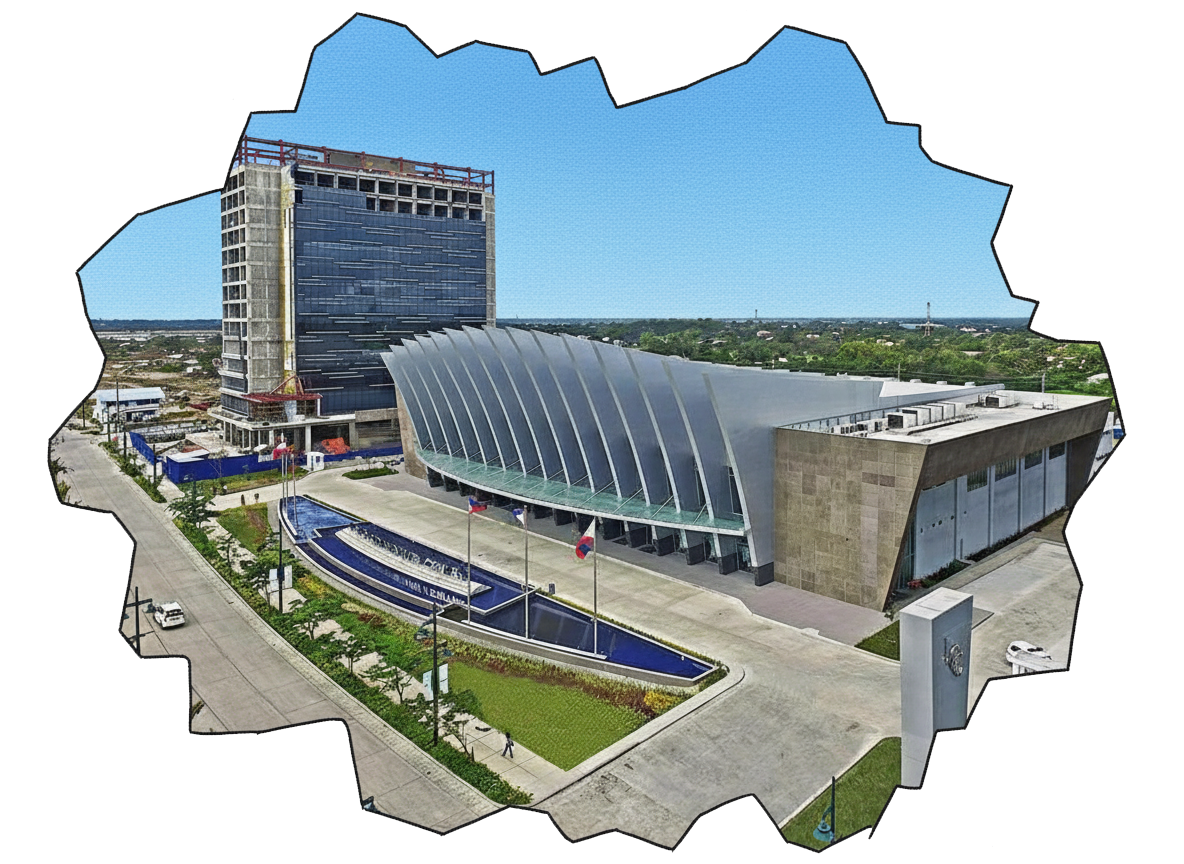
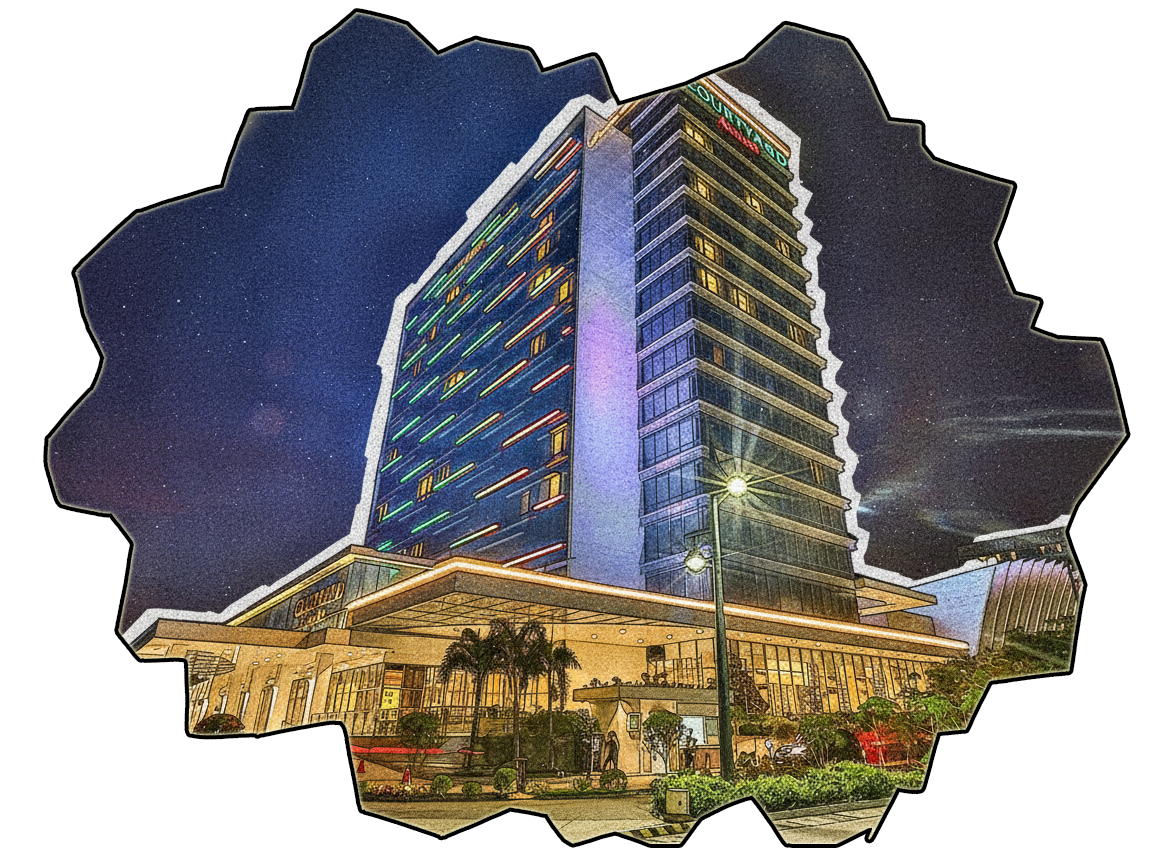
new venue

diff --git a/homepl.html b/homepl.html
@@ -154,10 +154,10 @@
 										<i class="icon-clock"></i>
 										<span>18:00 (GMT+8)</span>
 									</div>
-									<p>Odbędzie się w <b>Iloilo Convention Centre</b></p>
+									<p>Odbędzie się w <b>Courtyard Marriott Iloilo</b></p>
 									<img style="width: 50%; padding-bottom: 10px;" src="images/iloilocentre.png">
-									<iframe src="https://www.google.com/maps/embed?pb=!1m18!1m12!1m3!1d4726.7699708718!2d122.54503670000001!3d10.714536899999997!2m3!1f0!2f0!3f0!3m2!1i1024!2i768!4f13.1!3m3!1m2!1s0x33aee5313bae7939%3A0xf3c6bdd693c83314!2sIloilo%20Convention%20Center!5e1!3m2!1sen!2suk!4v1758641295650!5m2!1sen!2suk" width="300" height="200" style="border:0;" allowfullscreen="" loading="lazy" referrerpolicy="no-referrer-when-downgrade"></iframe>
-								</div>
+									<iframe src="https://www.google.com/maps/embed?pb=!1m18!1m12!1m3!1d4594.066483587176!2d122.544714!3d10.7136407!2m3!1f0!2f0!3f0!3m2!1i1024!2i768!4f13.1!3m3!1m2!1s0x33aee531334fbe6d%3A0x7b59510847cc709e!2sCourtyard%20by%20Marriott%20Iloilo!5e1!3m2!1sen!2suk!4v1764356928091!5m2!1sen!2suk" width="300" height="208" style="border:0;" allowfullscreen="" loading="lazy" referrerpolicy="no-referrer-when-downgrade"></iframe>
+									</div>
 							</div>
 						</div>
 					</div>

diff --git a/home.html b/home.html
@@ -154,9 +154,11 @@
 										<i class="icon-clock"></i>
 										<span>18:00 (GMT+8)</span>
 									</div>
-									<p>At <b>Iloilo Convention Centre</b></p>
+									<p>At <b>Courtyard by Marriott Iloilo</b></p>
 									<img style="width: 50%; padding-bottom: 10px;" src="images/iloilocentre.png">
-									<iframe src="https://www.google.com/maps/embed?pb=!1m18!1m12!1m3!1d4726.7699708718!2d122.54503670000001!3d10.714536899999997!2m3!1f0!2f0!3f0!3m2!1i1024!2i768!4f13.1!3m3!1m2!1s0x33aee5313bae7939%3A0xf3c6bdd693c83314!2sIloilo%20Convention%20Center!5e1!3m2!1sen!2suk!4v1758641295650!5m2!1sen!2suk" width="300" height="200" style="border:0;" allowfullscreen="" loading="lazy" referrerpolicy="no-referrer-when-downgrade"></iframe>
+									
+									<iframe src="https://www.google.com/maps/embed?pb=!1m18!1m12!1m3!1d4594.066483587176!2d122.544714!3d10.7136407!2m3!1f0!2f0!3f0!3m2!1i1024!2i768!4f13.1!3m3!1m2!1s0x33aee531334fbe6d%3A0x7b59510847cc709e!2sCourtyard%20by%20Marriott%20Iloilo!5e1!3m2!1sen!2suk!4v1764356928091!5m2!1sen!2suk" width="300" height="208" style="border:0;" allowfullscreen="" loading="lazy" referrerpolicy="no-referrer-when-downgrade"></iframe>
+									
 								</div>
 							</div>
 						</div>
